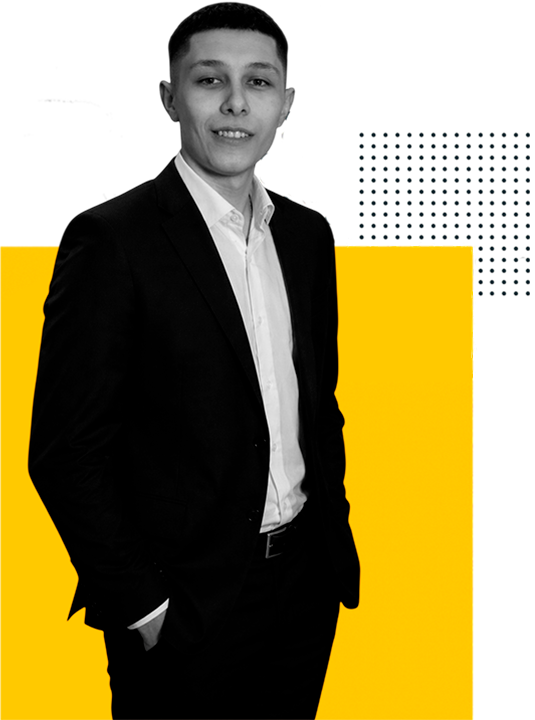
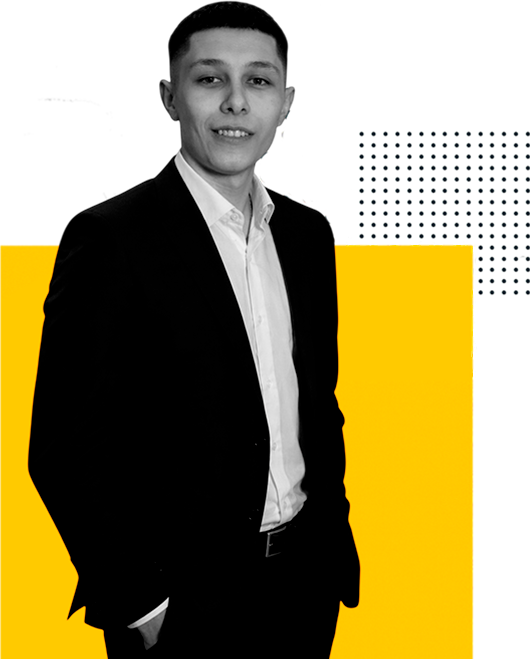
Обновлен блок успеха с использованием шаблона <template> для улучшения структуры кода. Изменены стили для блока hero, улучшена адаптивность и визуальное восприятие на мобильных устройствах. Исправлены размеры изображений и отступы.

Changed region(s): [[0.0, 0.0, 1.0, 1.0], [0.2415, 0.8194, 0.3321, 1.0]]

diff --git a/style.css b/style.css
@@ -29,22 +29,25 @@ img {
   padding: 20px 22px 34px;
 }
 
-/* Мобилка: фото слева (шире), текст справа (уже); от 768px — как на десктопе */
+/* Фото слева от текста; узкая колонка — масштаб как на макете */
 .hero {
   display: grid;
-  grid-template-columns: minmax(124px, 50%) minmax(0, 1fr);
-  column-gap: clamp(6px, 1.6vw, 12px);
+  grid-template-columns: minmax(72px, clamp(88px, 30vw, 300px)) minmax(0, 1fr);
+  column-gap: clamp(8px, 2vw, 20px);
   align-items: start;
-  margin-bottom: 18px;
+
 }
 
 .hero-img {
   display: block;
-  width: 100%;
-  margin-bottom: 0;
-  /* целиком PNG без обрезки (точки и края макета) */
+  width: auto;
+  max-width: 100%;
+  height: auto;
+  margin: 0;
+  align-self: start;
+  justify-self: start;
   object-fit: contain;
-  object-position: left bottom;
+  object-position: left top;
 }
 
 .hero-lead {
@@ -56,9 +59,10 @@ img {
   margin-bottom: 0;
   min-height: 0;
   min-width: 0;
+  max-width: 640px;
 }
 
-  /* Многострочный заголовок; на десктопе — в правой колонке над title.png */
+  /* Многострочный заголовок; на десктопе — справа от фото, над title.png */
   .hero-title {
     display: flex;
     flex-direction: column;
@@ -127,34 +131,29 @@ img {
 
 @media (min-width: 768px) {
   .hero {
-    grid-template-columns: minmax(300px, 42%) minmax(0, 1fr);
-    align-items: stretch;
-    /* выше блок — фото не упирается в низ с обрезанной макушкой */
-    min-height: clamp(520px, 52vw, 720px);
+    grid-template-columns: minmax(180px, clamp(200px, 26vw, 340px)) minmax(0, 1fr);
+    align-items: start;
     margin-bottom: 24px;
   }
 
   .hero-img {
-    max-height: none;
-    height: 100%;
-    min-height: 0;
-    align-self: stretch;
+    width: auto;
+    max-width: 100%;
+    height: auto;
+    max-height: clamp(260px, 36vw, 440px);
     object-fit: contain;
-    object-position: left bottom;
+    object-position: left top;
   }
 
   .hero-lead {
-    justify-content: center;
-    align-self: stretch;
-    padding: clamp(16px, 2.5vw, 32px) 0 clamp(16px, 2.5vw, 32px)
-      clamp(8px, 1.5vw, 20px);
-    max-width: 640px;
+    justify-content: flex-start;
+    align-self: start;
+    padding: 0 0 clamp(16px, 2.5vw, 32px) clamp(8px, 1.5vw, 20px);
     width: 100%;
-    
   }
 
   .hero-title__row--bold {
-    padding-top: 50px;
+    padding-top: 0;
   }
 
   .hero-title {
@@ -185,24 +184,21 @@ img {
   }
 }
 
-/* 400–800px: левая и правая колонки героя одной высоты (фото + блок с текстом и подписью) */
+/* 400–800px: фото слева, без растягивания по высоте строки */
 @media (min-width: 400px) and (max-width: 800px) {
   .hero {
-    align-items: stretch;
+    align-items: start;
   }
 
   .hero-img {
-    height: 100%;
-    min-height: 0;
-    align-self: stretch;
     object-fit: contain;
-    object-position: left bottom;
+    object-position: left top;
+    max-height: clamp(220px, 50vw, 400px);
   }
 
   .hero-lead {
-    align-self: stretch;
     min-height: 0;
-    justify-content: center;
+    justify-content: flex-start;
   }
 }
 
@@ -217,7 +213,7 @@ img {
   grid-template-columns: 88px 1fr;
   column-gap: 18px;
   align-items: start;
-  padding: 10px 0 0;
+  /* padding: 10px 0 0; */
 }
 
 .q + .q {
@@ -544,18 +540,35 @@ img {
   color: #111;
 }
 
-  /* SUCCESS */
+  /* SUCCESS (разметка в <template>, в DOM до отправки не попадает) */
 
-  .success {
-    display: none;
+  .success-page {
     text-align: center;
+    padding: 24px 0 40px;
   }
 
-  .success img {
-    width: 100%;
-    border-radius: 20px;
-    margin-bottom: 20px;
-    box-shadow: 0 10px 30px rgba(0, 0, 0, 0.1);
+  .success-page h2 {
+    margin: 0 0 16px;
+    font-size: clamp(22px, 5vw, 28px);
+  }
+
+  .success-page p {
+    margin: 0 auto 24px;
+    color: #3a3a3a;
+    line-height: 1.45;
+    max-width: 520px;
+  }
+
+  .success-page button {
+    appearance: none;
+    border: 0;
+    border-radius: 14px;
+    padding: 16px 24px;
+    font-size: 17px;
+    font-weight: 700;
+    cursor: pointer;
+    background: #f4c000;
+    color: #121212;
   }
   /* Подпись: обрезанный PNG, без зазора под картинкой (как иконка) */
   .title-pict {
@@ -609,13 +622,6 @@ img {
   .benefit + .benefit::before {
     display: none;
   }
-}
-.hero-lead {
-  justify-content: center;
-  max-width: 640px;
-
-  width: 100%;
-  
 }
 @media (max-width: 560px) {
   .container {
@@ -688,12 +694,10 @@ img {
     gap: 0;
   }
   .hero-lead {
-    justify-content: center;
-    align-self: center;
-padding-top: 20px;
-    max-width: 640px;
+    justify-content: flex-start;
+    align-self: start;
+    padding-top: 0;
     width: 100%;
-    
   }
   .benefit {
     display: grid;
@@ -728,13 +732,19 @@ padding-top: 20px;
   
 
   .hero {
-    grid-template-columns: minmax(108px, 54%) minmax(0, 1fr);
+    grid-template-columns: minmax(64px, clamp(76px, 38vw, 200px)) minmax(0, 1fr);
     column-gap: 6px;
+  }
+
+  .hero-img {
+    max-height: 180px
+    
   }
 
   .hero-title__row--bold {
     font-weight: 700;
     padding-top: 0;
+ 
     
   }
 
@@ -748,15 +758,15 @@ padding-top: 20px;
   }
 
   .hero-title__row {
-    font-size: clamp(14px, 3.9vw, 19px);
+    font-size: 18px
   }
 
   .hero-title__row--reg {
-    font-size: clamp(11px, 3vw, 16px);
+    font-size: 16px
   }
 
   .hero-title__mark {
-    font-size: clamp(12px, 3.4vw, 18px);
+    font-size: 18px
   }
 
   .desc {

diff --git a/index.html b/index.html
@@ -303,18 +303,18 @@
         </section>
       </form>
 
-      <div id="success" class="success">
-        <img src="photo.jpg" />
+      <template id="success-template">
+        <div class="success-page">
+          <h2>Спасибо за заявку</h2>
 
-        <h2>Спасибо за заявку</h2>
+          <p>
+            Мы уже изучаем ваш запрос и скоро свяжемся с вами.<br /><br />
+            Подпишитесь на Telegram с квартирами и акциями
+          </p>
 
-        <p>
-          Мы уже изучаем ваш запрос и скоро свяжемся с вами.<br /><br />
-          Подпишитесь на Telegram с квартирами и акциями
-        </p>
-
-        <button onclick="goTG()">Перейти в Telegram</button>
-      </div>
+          <button type="button" onclick="goTG()">Перейти в Telegram</button>
+        </div>
+      </template>
     </div>
 
     <script>
@@ -412,7 +412,7 @@
           .then((res) => {
             if (res.ok) {
               document.querySelector(".container").innerHTML =
-                document.getElementById("success").innerHTML;
+                document.getElementById("success-template").innerHTML;
             } else {
               alert("Ошибка. Попробуйте без VPN");
             }
